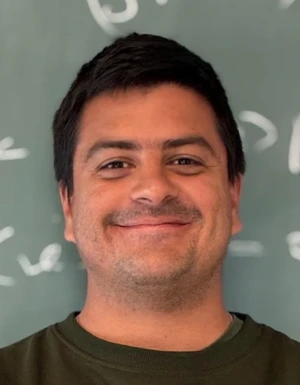
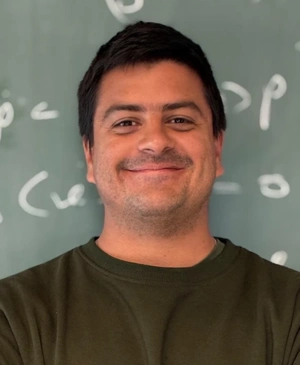
limit size in profile pages

diff --git a/assets/style.css b/assets/style.css
@@ -384,10 +384,20 @@ a:hover {
 
     /* 3. Center the photo reliably using inline-block */
     .profile-photo {
-        width: 100%;
-        max-width: 250px;
+        /* Instructs browser to maintain proportional scaling */
+        display: block;
+        width: auto;     /* Do not force full width */
+        height: auto;    /* Let height follow proportionally */
+
+        /* Set the maximal horizontal boundary */
+        max-width: 200px; /* Reduced slightly from 250px for tight screens */
+
+        /* Set the maximal vertical boundary (the fix) */
+        /* Caps the photo height at 35% of the viewport height */
+        max-height: 35vh;
+
+        /* Standard centering and spacing */
         margin: 0 auto 15px auto;
-        display: inline-block;
     }
 
     /* 4. Let the main content naturally flow below */
